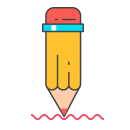
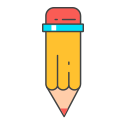
首页下啦

Changed region(s): [[0.2154, 0.8615, 0.8, 0.9231]]

diff --git a/SuiShouJi/Module/BookKeeping/BookKeepingHome/View/SSJBookKeepingButton.m b/SuiShouJi/Module/BookKeeping/BookKeepingHome/View/SSJBookKeepingButton.m
@@ -7,14 +7,10 @@
 //  Copyright © 2016年 ___9188___. All rights reserved.
 //
 
-static const float kPROGRESS_LINE_WIDTH=4.0;
 
-static const float kAnimationDuration = 2.0;
-
+#define Angle2Radian(angle) ((angle) / 180.0 * M_PI)
 
 static NSString *const kLodingViewAnimationKey = @"lodingViewAnimationKey";
-
-static NSString *const kPointViewAnimationKey = @"pointViewAnimationKey";
 
 #import "SSJBookKeepingButton.h"
 
@@ -22,6 +18,8 @@ static NSString *const kPointViewAnimationKey = @"pointViewAnimationKey";
 @property(nonatomic, strong) UIButton *recordMakingButton;
 @property(nonatomic, strong) CAGradientLayer *loadingLayer;
 @property(nonatomic, strong) UIView *pointView;
+@property(nonatomic, strong) UIImageView *lineImage;
+@property(nonatomic, strong) UIImageView *penImage;
 @end
 
 @implementation SSJBookKeepingButton{
@@ -33,27 +31,27 @@ static NSString *const kPointViewAnimationKey = @"pointViewAnimationKey";
 {
     self = [super initWithFrame:frame];
     if (self) {
-        _startTime = CFAbsoluteTimeGetCurrent();
         self.backgroundColor = [UIColor whiteColor];
-        [self.layer addSublayer:self.loadingLayer];
         [self addSubview:self.recordMakingButton];
-        [self addSubview:self.pointView];
+        [self addSubview:self.penImage];
+        [self addSubview:self.lineImage];
     }
     return self;
 }
 
 -(void)layoutSubviews{
     [super layoutSubviews];
-    self.pointView.center = CGPointMake(self.width / 2, self.height / 2);
-    [_pointView.layer setAnchorPoint:CGPointMake(0.5, 48.f / 8 + 0.5)];
     self.recordMakingButton.frame = self.bounds;
+    self.penImage.size = CGSizeMake(65, 65);
+    self.penImage.center = CGPointMake(self.width / 2, self.height / 2);
+    self.lineImage.size = CGSizeMake(39, 7);
+    self.lineImage.top = self.penImage.bottom - 2;
+    self.lineImage.centerX = self.width / 2;
 }
 
 -(UIButton *)recordMakingButton{
     if (!_recordMakingButton) {
         _recordMakingButton = [[UIButton alloc]initWithFrame:CGRectMake(0, 0, self.width, self.height)];
-        [_recordMakingButton setImage:[UIImage imageNamed:@"home_pen"] forState:UIControlStateNormal];
-        [_recordMakingButton setImage:[UIImage imageNamed:@"home_pen"] forState:UIControlStateHighlighted];
         _recordMakingButton.layer.cornerRadius = self.width / 2;
         _recordMakingButton.layer.borderColor = [UIColor ssj_colorWithHex:@"eb4a64"].CGColor;
         _recordMakingButton.layer.borderWidth = 2.0f;
@@ -62,39 +60,55 @@ static NSString *const kPointViewAnimationKey = @"pointViewAnimationKey";
     return _recordMakingButton;
 }
 
--(CAGradientLayer *)loadingLayer{
-    if (!_loadingLayer) {
-        UIBezierPath *path = [UIBezierPath bezierPathWithArcCenter:CGPointMake(self.width/2, self.height/2) radius:(self.width-kPROGRESS_LINE_WIDTH)/2 startAngle:degreesToRadians(0) endAngle:degreesToRadians(360) clockwise:YES];
-        CAShapeLayer *progressLayer = [CAShapeLayer layer];
-        progressLayer.frame = self.bounds;
-        progressLayer.fillColor =  [[UIColor clearColor] CGColor];
-        progressLayer.strokeColor=[UIColor redColor].CGColor;
-        progressLayer.lineCap = kCALineCapRound;
-        progressLayer.lineWidth = kPROGRESS_LINE_WIDTH;
-        progressLayer.path = path.CGPath;
-        _loadingLayer =  [CAGradientLayer layer];
-        _loadingLayer.frame = progressLayer.frame;
-        [_loadingLayer setColors:[NSArray arrayWithObjects:(id)[[UIColor ssj_colorWithHex:@"ffea01"] CGColor],(id)[[UIColor whiteColor] CGColor], nil]];
-        [_loadingLayer setLocations:@[@0,@0.5]];
-        [_loadingLayer setStartPoint:CGPointMake(0, 0)];
-        [_loadingLayer setEndPoint:CGPointMake(1, 0)];
-        [_loadingLayer setMask:progressLayer];
-        _loadingLayer.hidden = YES;
+-(UIImageView *)penImage{
+    if (!_penImage) {
+        _penImage = [[UIImageView alloc]init];
+        _penImage.image = [UIImage imageNamed:@"home_pen"];
     }
-    return _loadingLayer;
+    return _penImage;
 }
 
--(UIView *)pointView{
-    if (!_pointView) {
-        _pointView = [[UIView alloc]initWithFrame:CGRectMake(0, 0, 8, 8)];
-        _pointView.layer.borderColor = [UIColor ssj_colorWithHex:@"ffea01"].CGColor;
-        _pointView.layer.borderWidth = 3.0f;
-        _pointView.layer.cornerRadius = 4.0f;
-        _pointView.backgroundColor = [UIColor whiteColor];
-        _pointView.hidden = YES;
+-(UIImageView *)lineImage{
+    if (!_lineImage) {
+        _lineImage = [[UIImageView alloc]init];
+        _lineImage.image = [UIImage imageNamed:@"home_line"];
     }
-    return _pointView;
+    return _lineImage;
 }
+
+//-(CAGradientLayer *)loadingLayer{
+//    if (!_loadingLayer) {
+//        UIBezierPath *path = [UIBezierPath bezierPathWithArcCenter:CGPointMake(self.width/2, self.height/2) radius:(self.width-kPROGRESS_LINE_WIDTH)/2 startAngle:degreesToRadians(0) endAngle:degreesToRadians(360) clockwise:YES];
+//        CAShapeLayer *progressLayer = [CAShapeLayer layer];
+//        progressLayer.frame = self.bounds;
+//        progressLayer.fillColor =  [[UIColor clearColor] CGColor];
+//        progressLayer.strokeColor=[UIColor redColor].CGColor;
+//        progressLayer.lineCap = kCALineCapRound;
+//        progressLayer.lineWidth = kPROGRESS_LINE_WIDTH;
+//        progressLayer.path = path.CGPath;
+//        _loadingLayer =  [CAGradientLayer layer];
+//        _loadingLayer.frame = progressLayer.frame;
+//        [_loadingLayer setColors:[NSArray arrayWithObjects:(id)[[UIColor ssj_colorWithHex:@"ffea01"] CGColor],(id)[[UIColor whiteColor] CGColor], nil]];
+//        [_loadingLayer setLocations:@[@0,@0.5]];
+//        [_loadingLayer setStartPoint:CGPointMake(0, 0)];
+//        [_loadingLayer setEndPoint:CGPointMake(1, 0)];
+//        [_loadingLayer setMask:progressLayer];
+//        _loadingLayer.hidden = YES;
+//    }
+//    return _loadingLayer;
+//}
+//
+//-(UIView *)pointView{
+//    if (!_pointView) {
+//        _pointView = [[UIView alloc]initWithFrame:CGRectMake(0, 0, 8, 8)];
+//        _pointView.layer.borderColor = [UIColor ssj_colorWithHex:@"ffea01"].CGColor;
+//        _pointView.layer.borderWidth = 3.0f;
+//        _pointView.layer.cornerRadius = 4.0f;
+//        _pointView.backgroundColor = [UIColor whiteColor];
+//        _pointView.hidden = YES;
+//    }
+//    return _pointView;
+//}
 
 //-(void)startLoading{
 //    _startTime = CFAbsoluteTimeGetCurrent();
@@ -169,6 +183,29 @@ static NSString *const kPointViewAnimationKey = @"pointViewAnimationKey";
 //    }
 //    _startTime = 0;
 //}
+
+// 抖动动画
+- (void)startAnimating
+{
+    CAKeyframeAnimation *anim = [CAKeyframeAnimation animation];
+    anim.keyPath = @"transform.rotation";
+    
+    anim.values = @[@(Angle2Radian(-25)),  @(Angle2Radian(25)), @(Angle2Radian(-25))];
+    anim.duration = 0.5;
+    // 动画的重复执行次数
+    anim.repeatCount = MAXFLOAT;
+    
+    // 保持动画执行完毕后的状态
+    anim.removedOnCompletion = NO;
+    anim.fillMode = kCAFillModeForwards;
+    
+    [self.penImage.layer addAnimation:anim forKey:kLodingViewAnimationKey];
+}
+
+- (void)stopLoading{
+    [self.penImage.layer removeAnimationForKey:kLodingViewAnimationKey];
+}
+
 
 -(void)recordMakingButtonClicked:(id)sender{
     if (self.recordMakingClickBlock) {

diff --git a/SuiShouJi/Module/BookKeeping/BookKeepingHome/View/SSJHomeTableView.m b/SuiShouJi/Module/BookKeeping/BookKeepingHome/View/SSJHomeTableView.m
@@ -9,7 +9,7 @@
 #import "SSJHomeTableView.h"
 
 @interface SSJHomeTableView()
-@property(nonatomic, strong) UIImageView *backImage;
+@property(nonatomic, strong) UIView *lineView;
 @end
 
 @implementation SSJHomeTableView
@@ -18,14 +18,35 @@
 {
     self = [super initWithFrame:frame];
     if (self) {
+        [self addSubview:self.lineView];
         self.backgroundColor = SSJ_DEFAULT_BACKGROUND_COLOR;
-        self.separatorColor = SSJ_DEFAULT_SEPARATOR_COLOR;
         [self ssj_clearExtendSeparator];
         if ([self respondsToSelector:@selector(setSeparatorInset:)]) {
             [self setSeparatorInset:UIEdgeInsetsZero];
         }
     }
     return self;
+}
+
+-(void)layoutSubviews{
+    [super layoutSubviews];
+    self.lineView.top = 0;
+    self.lineView.centerX = self.width / 2;
+    self.lineView.height = self.lineHeight;
+}
+
+
+-(UIView *)lineView{
+    if (!_lineView) {
+        _lineView = [[UIView alloc]initWithFrame:CGRectMake(0, 0, 1, 0)];
+        _lineView.backgroundColor = SSJ_DEFAULT_SEPARATOR_COLOR;
+    }
+    return _lineView;
+}
+
+-(void)setLineHeight:(float)lineHeight{
+    _lineHeight = lineHeight;
+    [self setNeedsLayout];
 }
 
 -(void)touchesBegan:(NSSet<UITouch *> *)touches withEvent:(UIEvent *)event{

diff --git a/SuiShouJi/Module/BookKeeping/BookKeepingHome/ViewController/SSJBookKeepingHomeViewController.m b/SuiShouJi/Module/BookKeeping/BookKeepingHome/ViewController/SSJBookKeepingHomeViewController.m
@@ -256,6 +256,7 @@
 #pragma mark - UIScrollViewDelegate
 -(void)scrollViewDidEndDragging:(UIScrollView *)scrollView willDecelerate:(BOOL)decelerate{
     if (scrollView.contentOffset.y < -38) {
+        [self.homeButton stopLoading];
         __weak typeof(self) weakSelf = self;
         SSJRecordMakingViewController *recordmakingVC = [[SSJRecordMakingViewController alloc]init];
         recordmakingVC.addNewChargeBlock = ^(NSArray *chargeIdArr){
@@ -281,6 +282,13 @@
 //            [weakSelf.homeButton stopLoading];
 //        }];
     }
+}
+
+- (void)scrollViewWillBeginDragging:(UIScrollView *)scrollView{
+    if (scrollView.contentOffset.y < 0 && self.items.count != 0) {
+        self.tableView.lineHeight = 100;
+    }
+    [self.homeButton startAnimating];
 }
 
 
@@ -358,6 +366,7 @@
         _tableView = [[SSJHomeTableView alloc]init];
         _tableView.delegate = self;
         _tableView.dataSource = self;
+        _tableView.showsVerticalScrollIndicator = NO;
         __weak typeof(self) weakSelf = self;
         _tableView.tableViewClickBlock = ^(){
             weakSelf.selectIndex = nil;

diff --git a/SuiShouJi/Module/BookKeeping/BookKeepingHome/View/SSJBookKeepingButton.h b/SuiShouJi/Module/BookKeeping/BookKeepingHome/View/SSJBookKeepingButton.h
@@ -10,10 +10,10 @@
 
 @interface SSJBookKeepingButton : UIView
 // 开始动画
-//-(void)startLoading;
+-(void)startAnimating;
 
 // 结束动画
-//- (void)stopLoading;
+- (void)stopLoading;
 
 typedef void(^recordMakingClickBlock)();
 
@@ -24,4 +24,6 @@ typedef void(^recordMakingClickBlock)();
 //@property (nonatomic, copy) animationStopBlock animationStopBlock;
 
 @property(nonatomic) BOOL refreshSuccessOrNot;
+
+
 @end

diff --git a/SuiShouJi/Module/BookKeeping/BookKeepingHome/View/SSJHomeTableView.h b/SuiShouJi/Module/BookKeeping/BookKeepingHome/View/SSJHomeTableView.h
@@ -12,4 +12,6 @@
 typedef void(^tableViewClickBlock)();
 
 @property (nonatomic, copy) tableViewClickBlock tableViewClickBlock;
+
+@property(nonatomic) float lineHeight;
 @end
